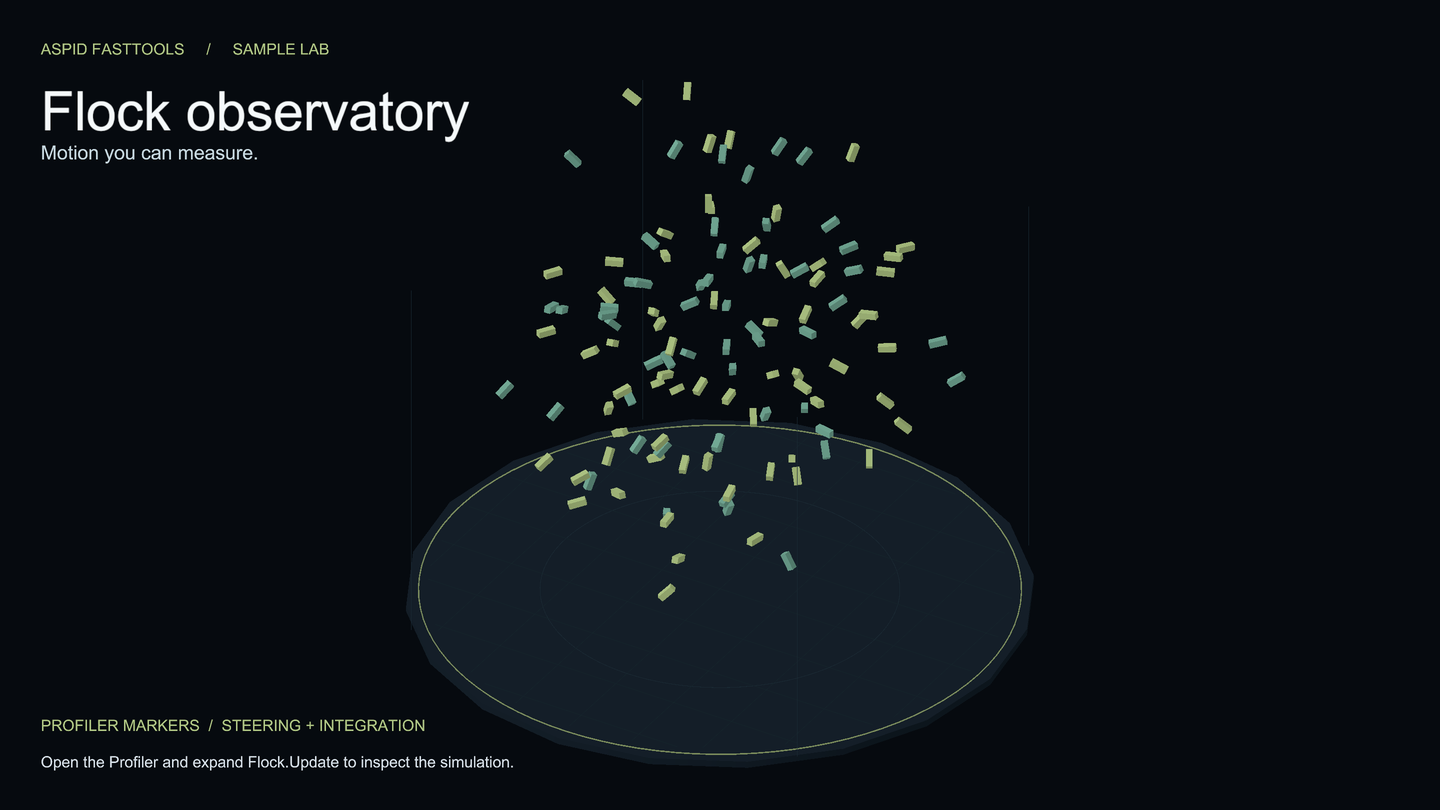
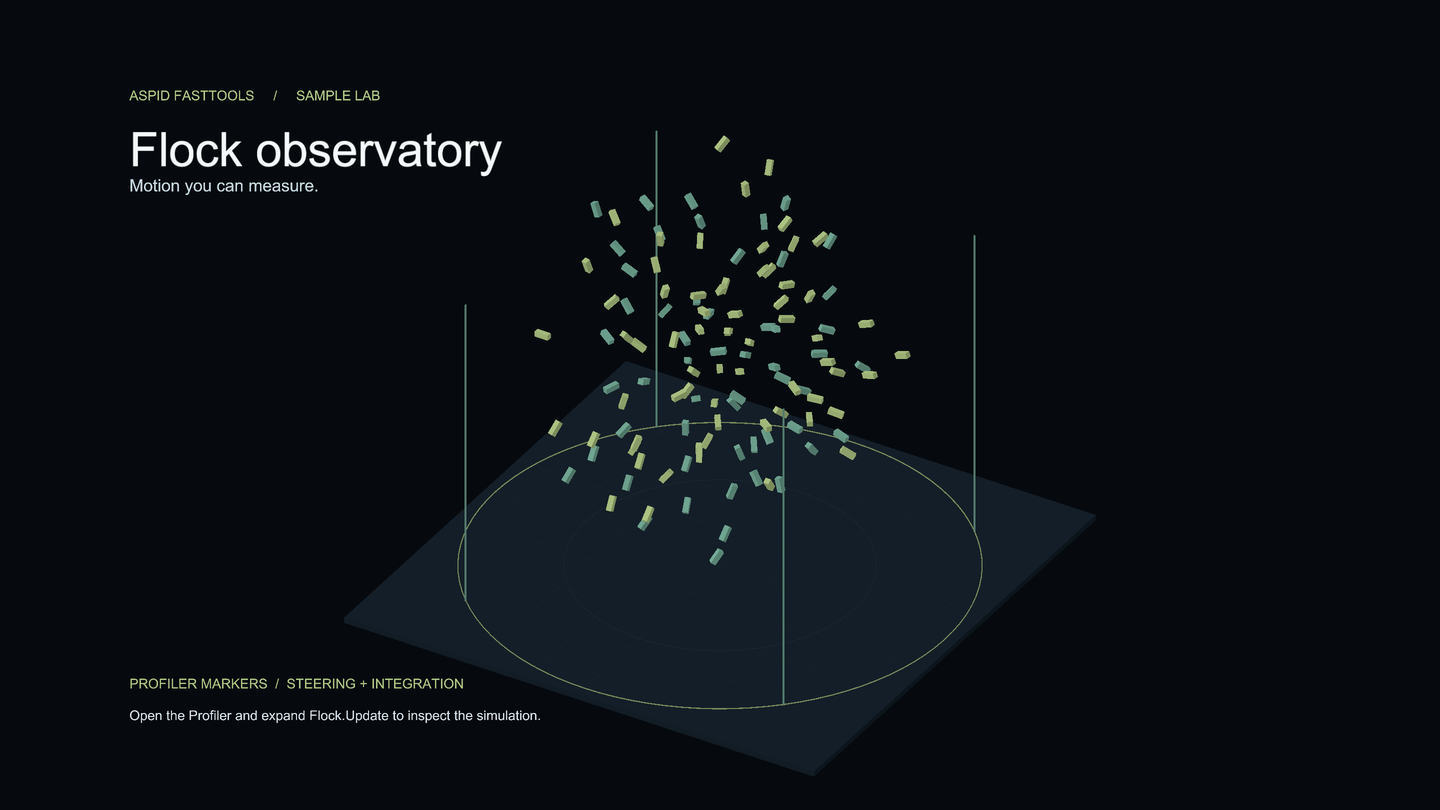
fix(samples): refine demo layouts, geometry and theme palettes
Keep enemies above the arena, align surface trails, and slow soft sand.
Use rectangular platforms and anchor volume guides to the orbit boundary.
Align catalog fields and buttons, refresh both media themes, and shorten pauses.

diff --git a/Samples~/EditorTools/Scripts/Editor/AbilityCatalogWindow.cs b/Samples~/EditorTools/Scripts/Editor/AbilityCatalogWindow.cs
@@ -85,7 +85,7 @@ namespace Aspid.FastTools.Samples.EditorTools.Editors
                 .AddChild(toolbar)
                 .AddChild(_list);
 
-            _details = new ScrollView().SetFlexGrow(1).SetPaddingX(20).SetPaddingY(20);
+            _details = new ScrollView().SetFlexGrow(1);
             _details.AddToClassList("ability-details");
             left.AddToClassList("ability-sidebar");
             create.AddToClassList("ability-primary");
@@ -159,6 +159,8 @@ namespace Aspid.FastTools.Samples.EditorTools.Editors
                 .AddChild(effectLabel)
                 .AddChild(effectButton);
 
+            effectRow.AddToClassList("ability-effect-row");
+
             // A one-click balance pass: chainable typed setters, Undo included, applied once at the end.
             var halveCooldown = new Button()
                 .SetText("Halve cooldown, +5 MP")
@@ -171,10 +173,27 @@ namespace Aspid.FastTools.Samples.EditorTools.Editors
                     manaCost.SetIntAndApply(manaCost.intValue + 5);
                 });
 
+            halveCooldown.AddToClassList("ability-action");
+            var selectAsset = new Button().SetText("Select asset")
+                .AddClicked(() => Selection.activeObject = config);
+            selectAsset.AddToClassList("ability-action");
+            var actions = new VisualElement();
+            actions.AddToClassList("ability-actions");
+            actions.Add(halveCooldown);
+            actions.Add(selectAsset);
+
+            var description = new TextField("Description")
+            {
+                multiline = true,
+                bindingPath = "_description"
+            };
+            description.AddToClassList("ability-description");
+
             var title = new Label(config.AbilityName)
                 .SetFontSize(24).AddBoldUnityFontStyleAndWeight().SetMarginBottom(18)
                 .SetTooltip("Double-click to open the script")
                 .AddOpenScriptCommand(config);
+            title.AddToClassList("ability-detail-title");
             title.TrackSerializedObjectValue(serializedObject, _ =>
             {
                 title.SetText(config.AbilityName);
@@ -186,14 +205,12 @@ namespace Aspid.FastTools.Samples.EditorTools.Editors
                 // BindTo(SerializedObject) binds every PropertyField below in one call.
                 .AddChild(new VisualElement()
                     .AddChild(new PropertyField(serializedObject.FindProperty("_abilityName")).AddValueChanged(_ => _list.RefreshItems()))
-                    .AddChild(new PropertyField(serializedObject.FindProperty("_description")))
+                    .AddChild(description)
                     .AddChild(new PropertyField(serializedObject.FindProperty("_manaCost")))
                     .AddChild(new PropertyField(serializedObject.FindProperty("_cooldown")))
                     .BindTo(serializedObject))
                 .AddChild(effectRow)
-                .AddChild(halveCooldown.SetMarginTop(12).SetAlignSelf(Align.FlexStart))
-                .AddChild(new Button().SetText("Select asset").SetAlignSelf(Align.FlexStart)
-                    .AddClicked(() => Selection.activeObject = config));
+                .AddChild(actions);
 
             var hint = new Label("Changes are saved to the asset. Use Undo to restore previous values.");
             hint.AddToClassList("ability-hint");

diff --git a/Samples~/EnumValues/Scripts/Walker.cs b/Samples~/EnumValues/Scripts/Walker.cs
@@ -48,7 +48,8 @@ namespace Aspid.FastTools.Samples.EnumValues
                 return;
             }
 
-            var trailPosition = transform.position + Vector3.down * 0.49f;
+            var trailPosition = transform.position;
+            trailPosition.y = _tile.GetComponent<Collider>().bounds.max.y + 0.01f;
             if (_trail == null || previousTile != _tile || Time.time >= _nextStep)
             {
                 _nextStep = Time.time + Mathf.Max(0.02f, _stepInterval.GetValue(_tile.Surface));

diff --git a/Samples~/Types/Scripts/Enemies/Grunt.cs b/Samples~/Types/Scripts/Enemies/Grunt.cs
@@ -10,6 +10,6 @@ namespace Aspid.FastTools.Samples.Types
         protected override Color Tint => new(0.85f, 0.35f, 0.25f);
 
         protected override void Move(float deltaTime) =>
-            transform.position = Vector3.MoveTowards(transform.position, Vector3.zero, Speed * deltaTime);
+            transform.position = Vector3.MoveTowards(transform.position, new Vector3(0f, transform.position.y, 0f), Speed * deltaTime);
     }
 }

diff --git a/Samples~/Types/Scripts/Enemies/Enemy.cs b/Samples~/Types/Scripts/Enemies/Enemy.cs
@@ -25,6 +25,8 @@ namespace Aspid.FastTools.Samples.Types
 
         protected virtual void Start()
         {
+            // Capsule pivots are centered; keep the feet on the arena after subtype scaling.
+            transform.position -= Vector3.up * GetComponent<Renderer>().bounds.min.y;
             _block = new MaterialPropertyBlock();
             _block.SetColor(_baseColorId, Tint);
             _block.SetColor(_colorId, Tint);

diff --git a/Samples~/Types/Scripts/Enemies/Archer.cs b/Samples~/Types/Scripts/Enemies/Archer.cs
@@ -13,7 +13,7 @@ namespace Aspid.FastTools.Samples.Types
         protected override void Move(float deltaTime)
         {
             var position = transform.position;
-            var toCenter = -position;
+            var toCenter = new Vector3(-position.x, 0f, -position.z);
             var distance = toCenter.magnitude;
             if (distance < 0.01f) return;
 

diff --git a/Samples~/Types/Scripts/Enemies/ArmoredGrunt.cs b/Samples~/Types/Scripts/Enemies/ArmoredGrunt.cs
@@ -11,8 +11,8 @@ namespace Aspid.FastTools.Samples.Types
 
         protected override void Start()
         {
-            base.Start();
             transform.localScale = Vector3.one * 1.4f;
+            base.Start();
         }
 
         public override string ToString() =>

diff --git a/Samples~/Types/Scripts/Enemies/Sniper.cs b/Samples~/Types/Scripts/Enemies/Sniper.cs
@@ -9,8 +9,8 @@ namespace Aspid.FastTools.Samples.Types
 
         protected override void Start()
         {
-            base.Start();
             transform.localScale = new Vector3(0.6f, 1.6f, 0.6f);
+            base.Start();
         }
     }
 }

diff --git a/Samples~/EnumValues/Scripts/TerrainFlags.cs b/Samples~/EnumValues/Scripts/TerrainFlags.cs
@@ -11,5 +11,6 @@ namespace Aspid.FastTools.Samples.EnumValues
         Wet = 1,
         Slippery = 2,
         Hot = 4,
+        Soft = 8,
     }
 }

diff --git a/Samples~/EnumValues/Documentation/README.ru.md b/Samples~/EnumValues/Documentation/README.ru.md
@@ -14,7 +14,7 @@
 ## Как открыть
 
 1. Импортируйте пример и откройте `Scenes/EnumValues.unity`.
-2. Войдите в Play Mode: **Walker** проходит семь плиток, оставляя непрерывную цветную линию. Её старый конец сокращается через две секунды. На горячем металле персонаж движется быстрее, на мокрой траве — медленнее.
+2. Войдите в Play Mode: **Walker** проходит семь плиток, оставляя непрерывную цветную линию. Её старый конец сокращается через две секунды. На горячем металле персонаж движется быстрее, на мокрой траве — медленнее. Мягкий песок даёт множитель скорости `0.4`: ниже, чем у сухого камня (`1`) и мокрого скользкого камня (`0.5`).
 
 ![Персонаж проходит по разным поверхностям и оставляет непрерывную цветную линию.](Images/demo.gif)
 

diff --git a/Samples~/EnumValues/Documentation/README.md b/Samples~/EnumValues/Documentation/README.md
@@ -14,7 +14,7 @@ Surface colors and footprint colors, each with a Default Value.
 ## Open it
 
 1. Import the sample and open `Scenes/EnumValues.unity`.
-2. Enter Play Mode: the **Walker** crosses seven tiles, leaving a continuous colored trail whose older end recedes after two seconds. Movement is faster on hot metal and slower on wet grass.
+2. Enter Play Mode: the **Walker** crosses seven tiles, leaving a continuous colored trail whose older end recedes after two seconds. Movement is faster on hot metal and slower on wet grass. Soft sand uses a `0.4` speed multiplier, below both dry stone (`1`) and wet, slippery stone (`0.5`).
 
 ![The walker crosses different surfaces and leaves a continuous colored trail.](Images/demo.gif)
 
